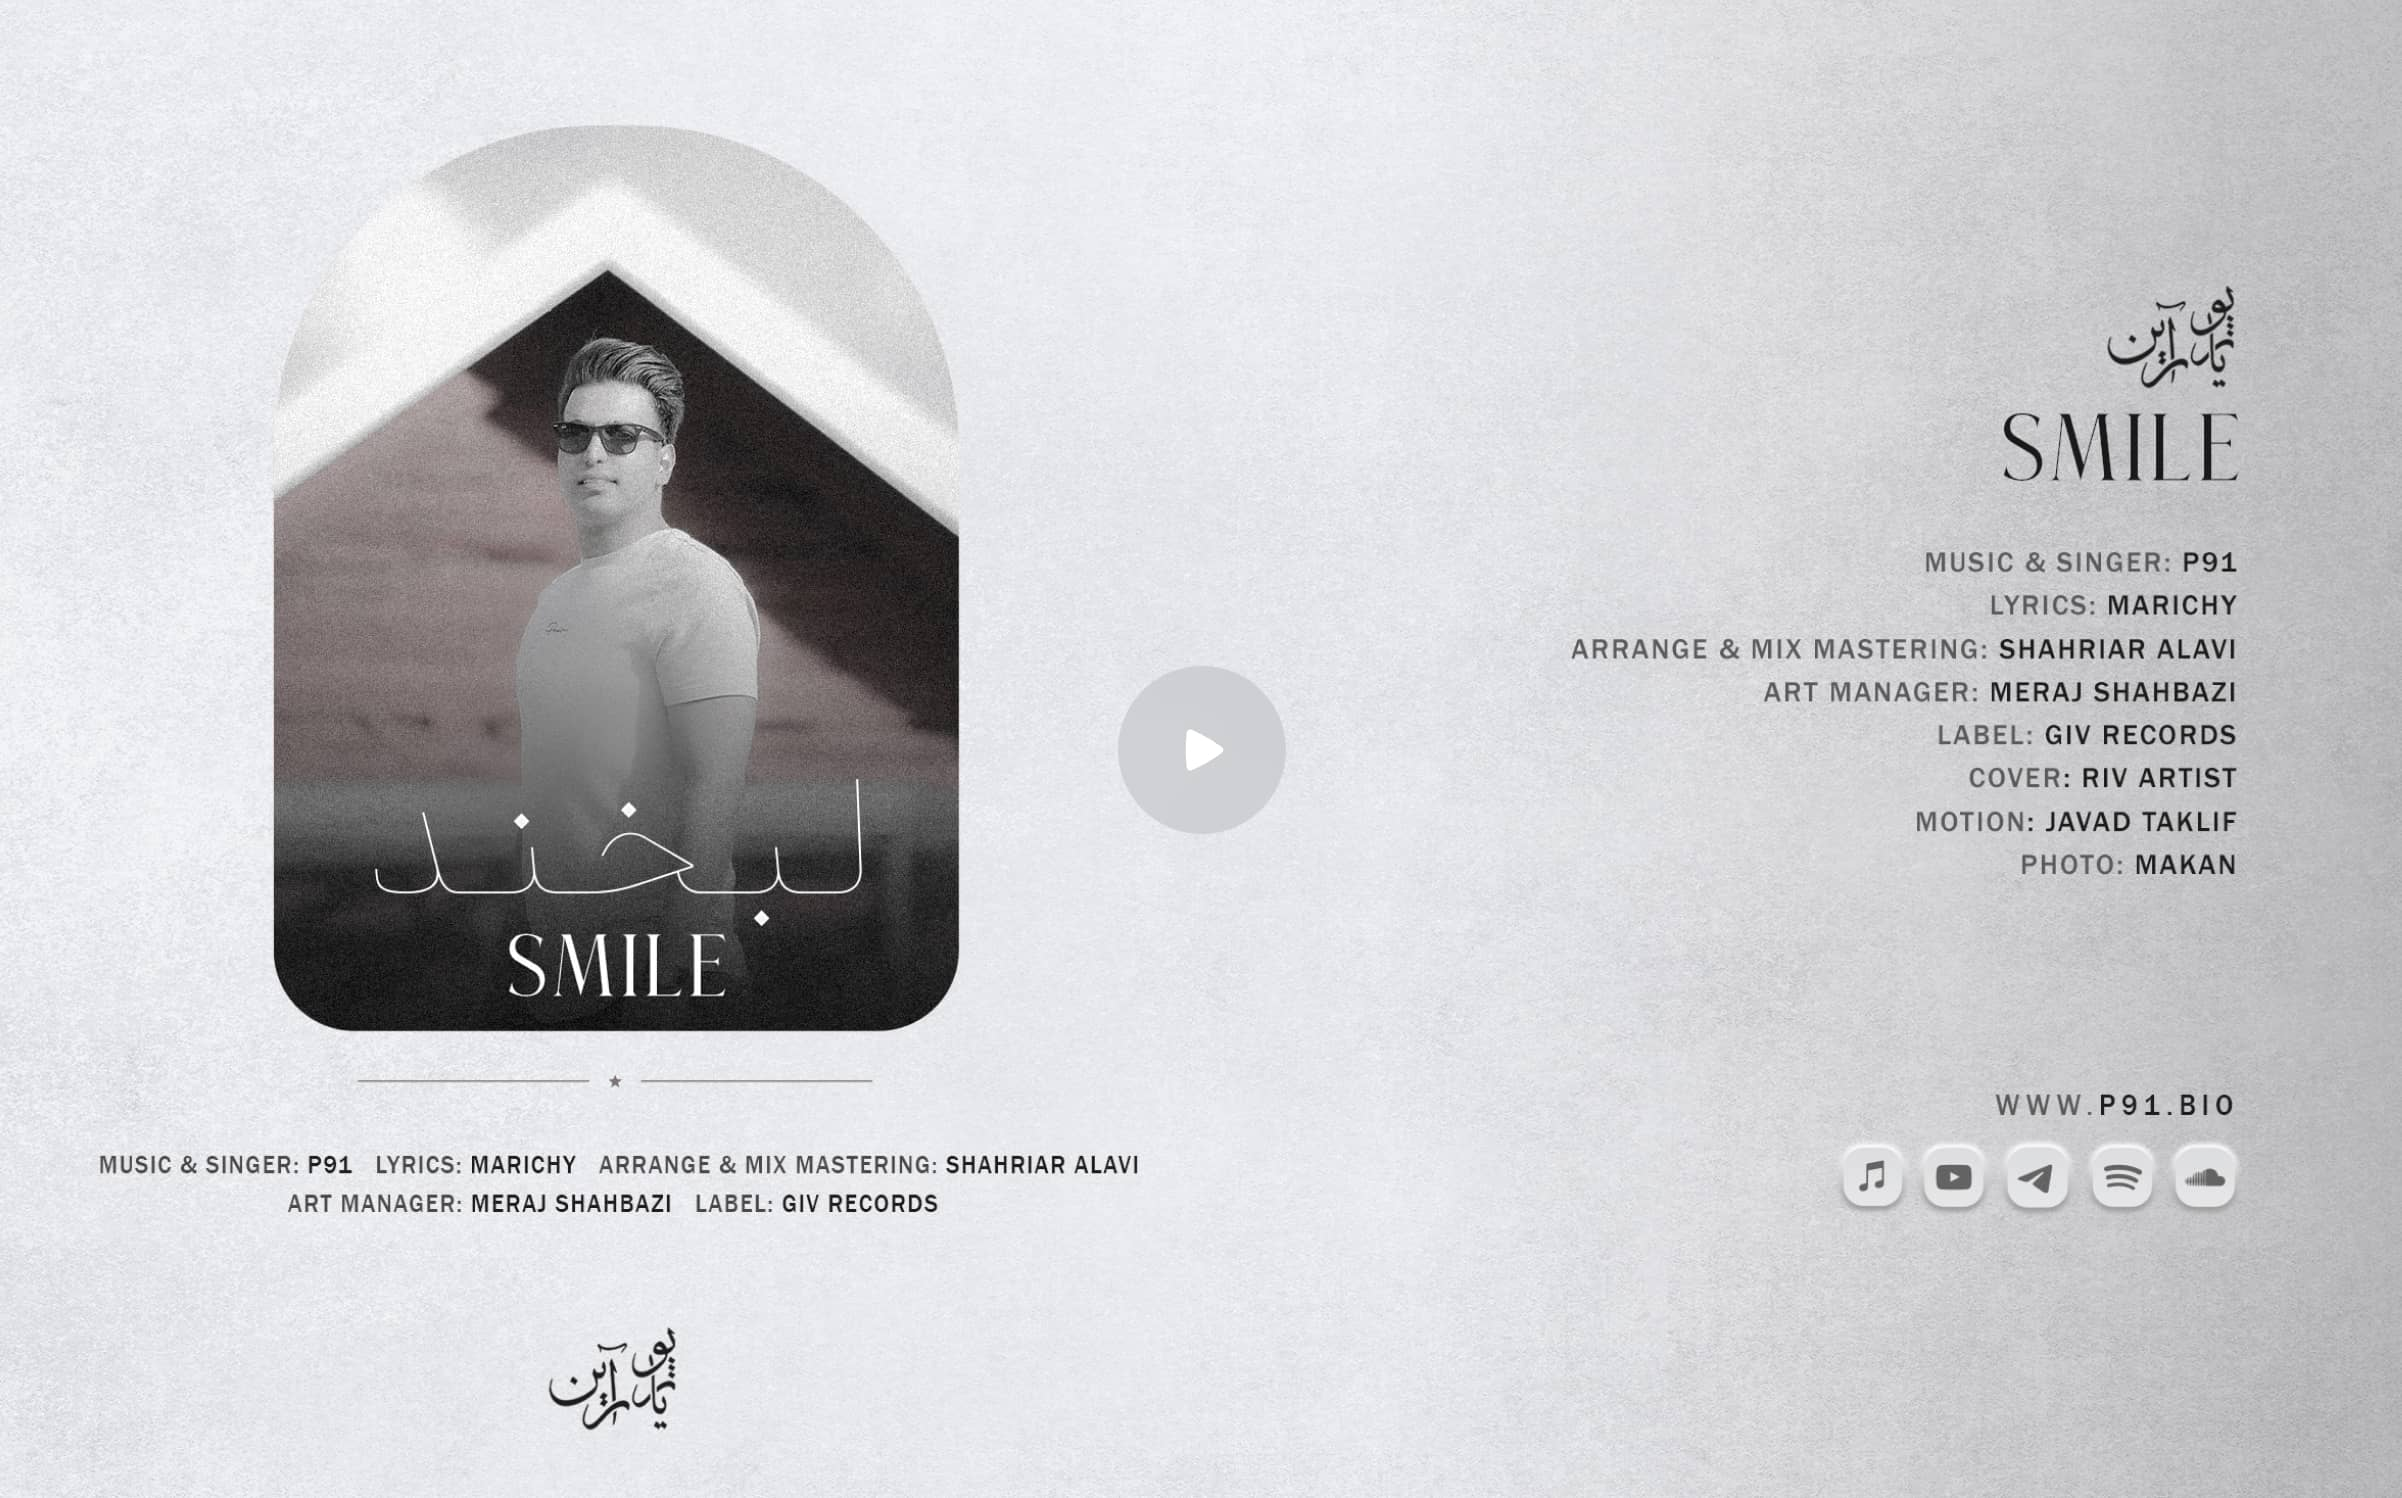
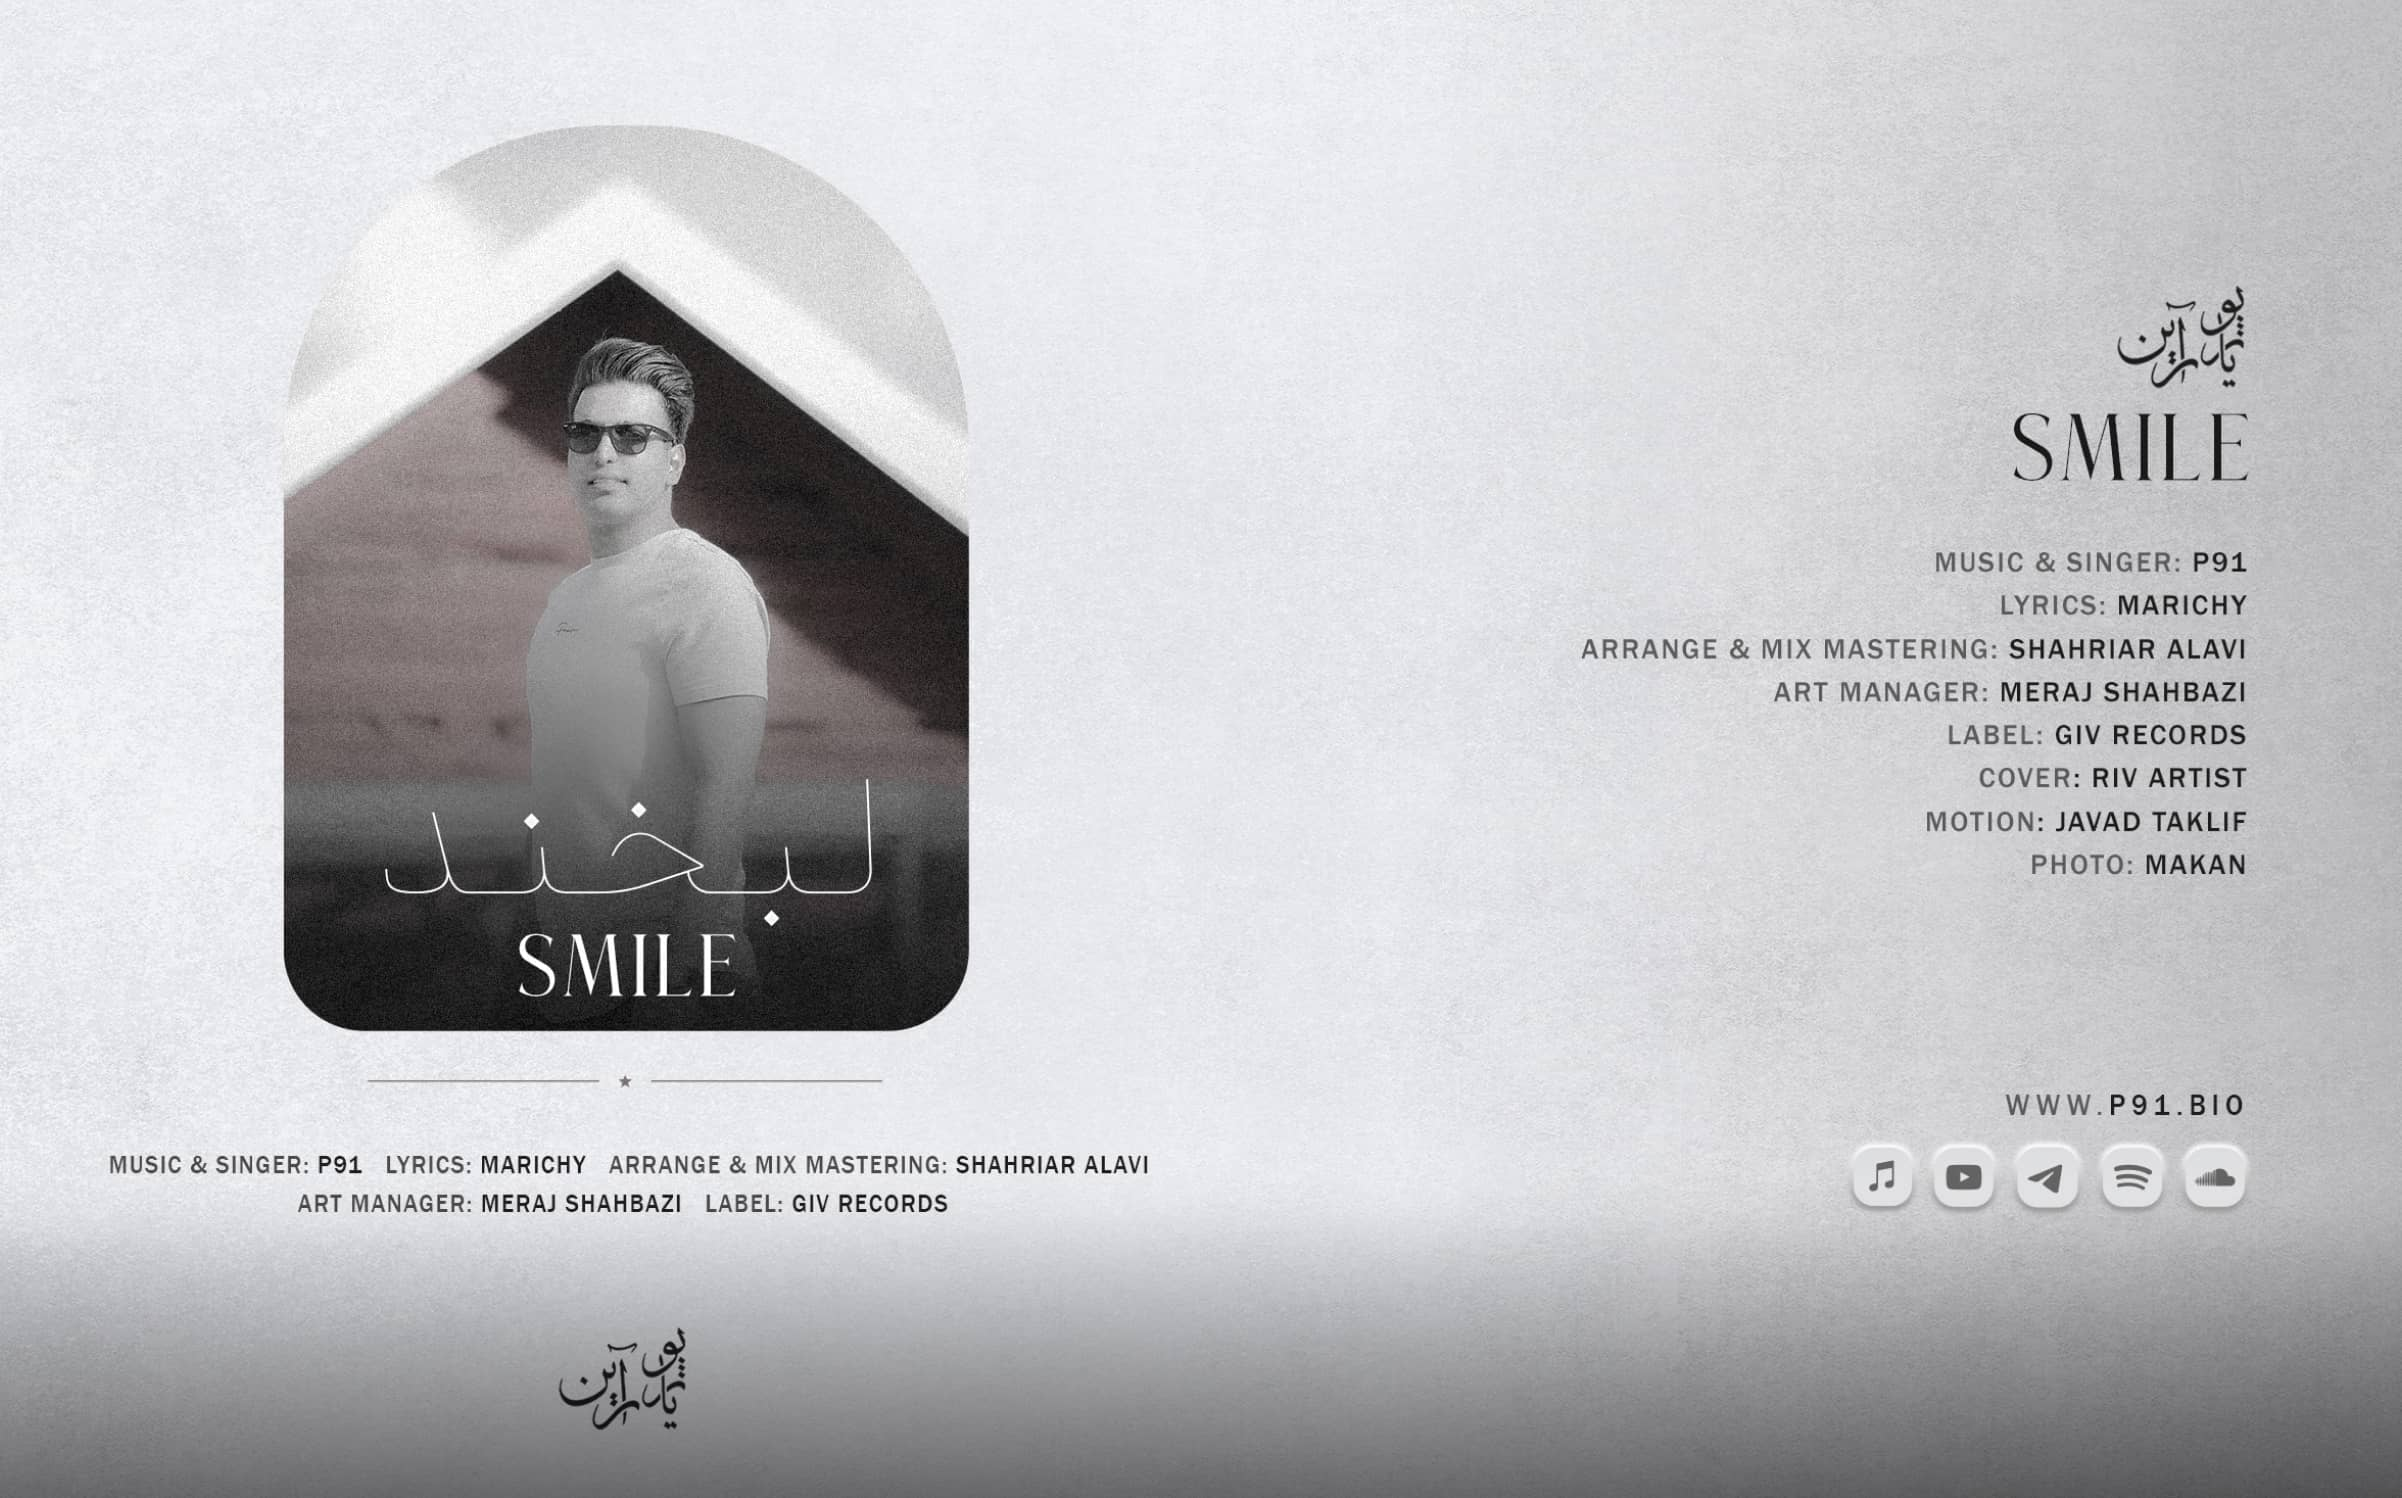
fix: add image with dark overlay

diff --git a/components/Sections/MusicVideo/index.tsx b/components/Sections/MusicVideo/index.tsx
@@ -43,7 +43,7 @@ const MusicVideo = () => {
         <div className="container">
           <div className="w-full overflow-hidden">
             <div
-              className="relative w-full aspect-video rounded-t-[32px] min-h-[100px] lg:min-h-[500px] "
+              className="relative w-full aspect-video rounded-t-[32px] min-h-[300px] lg:min-h-[400px] "
               style={{
                 backgroundImage: `url('/images/thumbnails/video/1.jpg')`,
                 backgroundPosition: "center",
